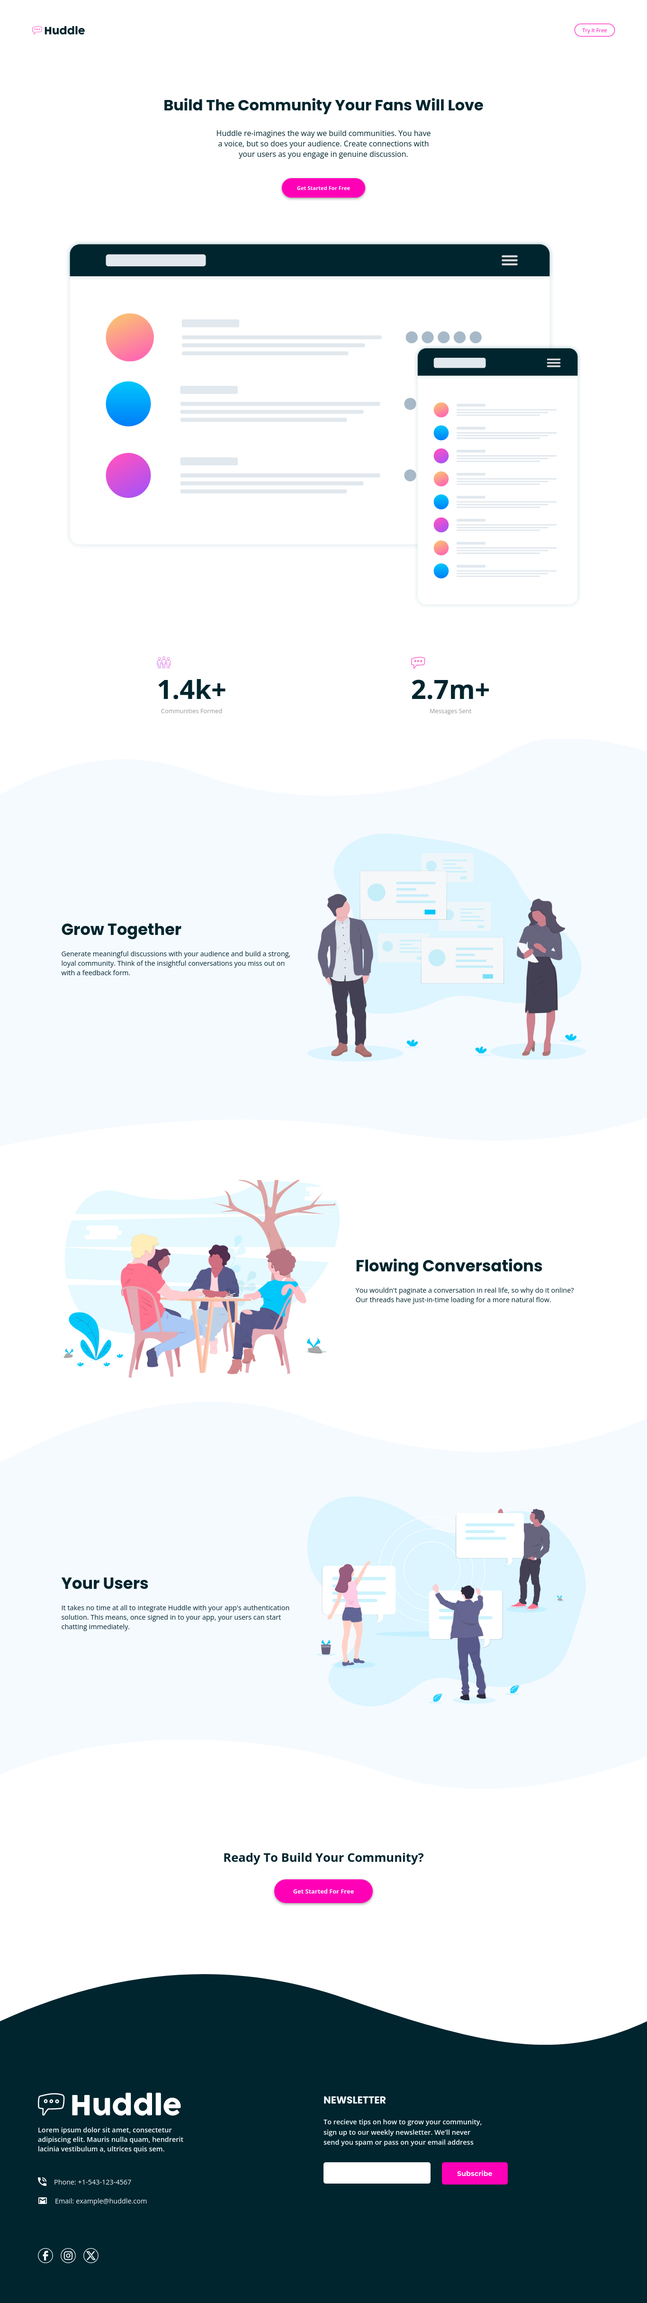
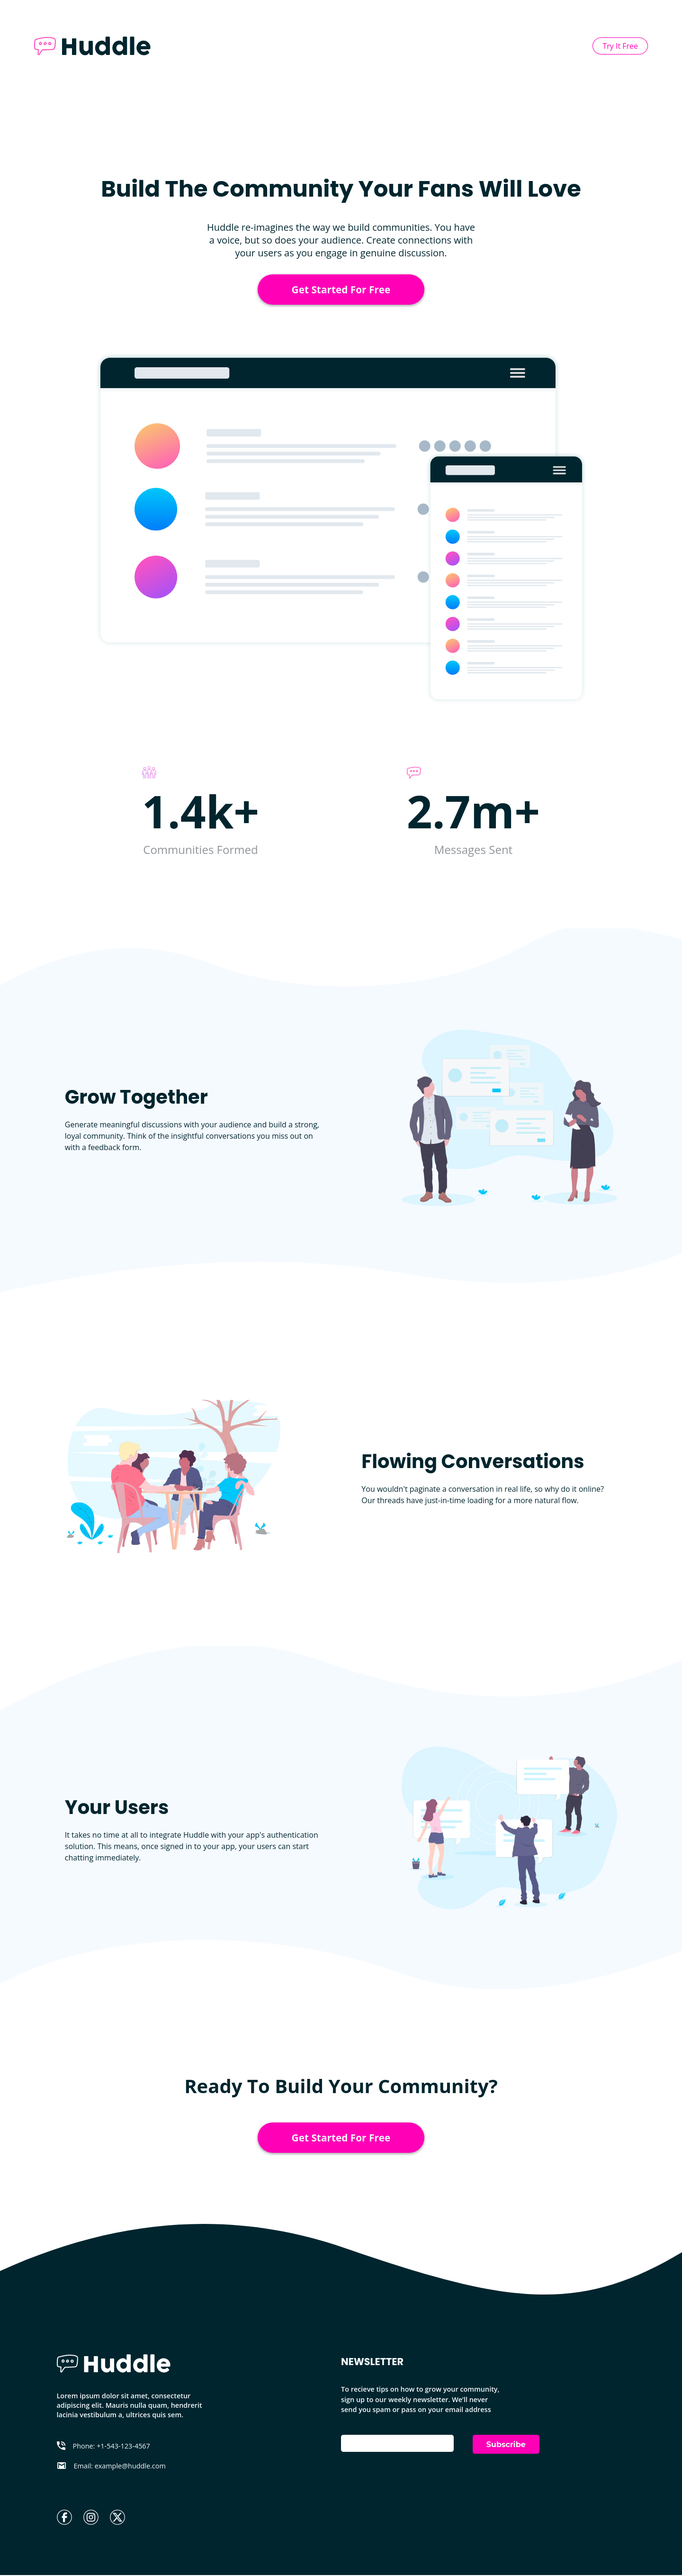
Updated solution preview

diff --git a/mystyle.css b/mystyle.css
@@ -373,7 +373,7 @@ footer p {
 
 @media (width >= 720px) {
   #nav {
-    margin: 77px 5% 90px;
+    margin: 77px 5% 88px;
   }
   #top-logo {
     height: 40px;
@@ -477,6 +477,28 @@ footer p {
     padding: 1.12rem 4.5rem;
     font-size: 1.3rem;
   }
+
+  #about img {
+    height: 39px;
+    margin-bottom: 34px;
+  }
+  #about p {
+    max-width: 40ch;
+  }
+
+  footer button {
+    padding: 0.62rem 1.8rem;
+    font-size: 1rem;
+  }
+  #socials {
+    grid-area: social;
+  }
+  #socials svg {
+    width: 32px;
+    height: 32px;
+  }
+}
+@media (width >= 800px) {
   footer {
     grid-template-columns: 1fr 1fr;
     grid-template-areas:
@@ -496,12 +518,9 @@ footer p {
   footer section:last-of-type {
     grid-area: about;
   }
-  #about img {
-    height: 39px;
-    margin-bottom: 34px;
-  }
-  #about p {
-    max-width: 40ch;
+  footer input {
+    width: 238px;
+    padding: 0.62rem;
   }
   footer form > div {
     flex-direction: row;
@@ -509,21 +528,6 @@ footer p {
   }
   footer label {
     max-width: 42ch;
-  }
-  footer input {
-    width: 238px;
-    padding: 0.62rem;
-  }
-  footer button {
-    padding: 0.62rem 1.8rem;
-    font-size: 1rem;
-  }
-  #socials {
-    grid-area: social;
-  }
-  #socials svg {
-    width: 32px;
-    height: 32px;
   }
 }
 @media (width >= 900px) {
